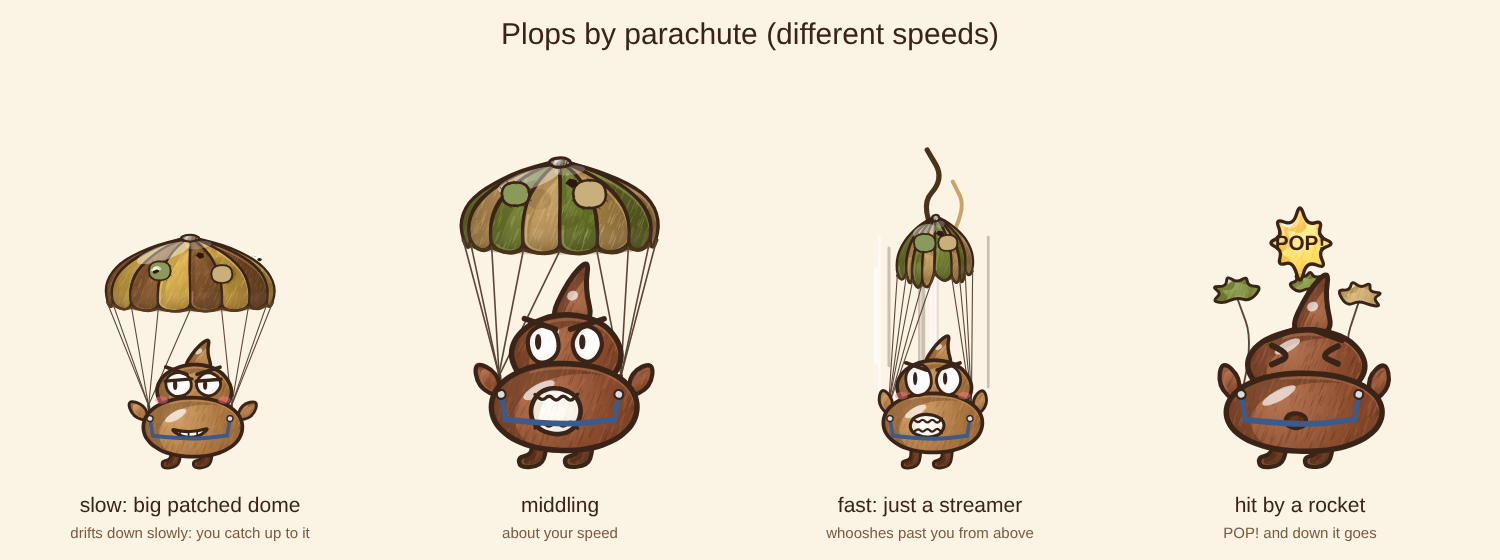
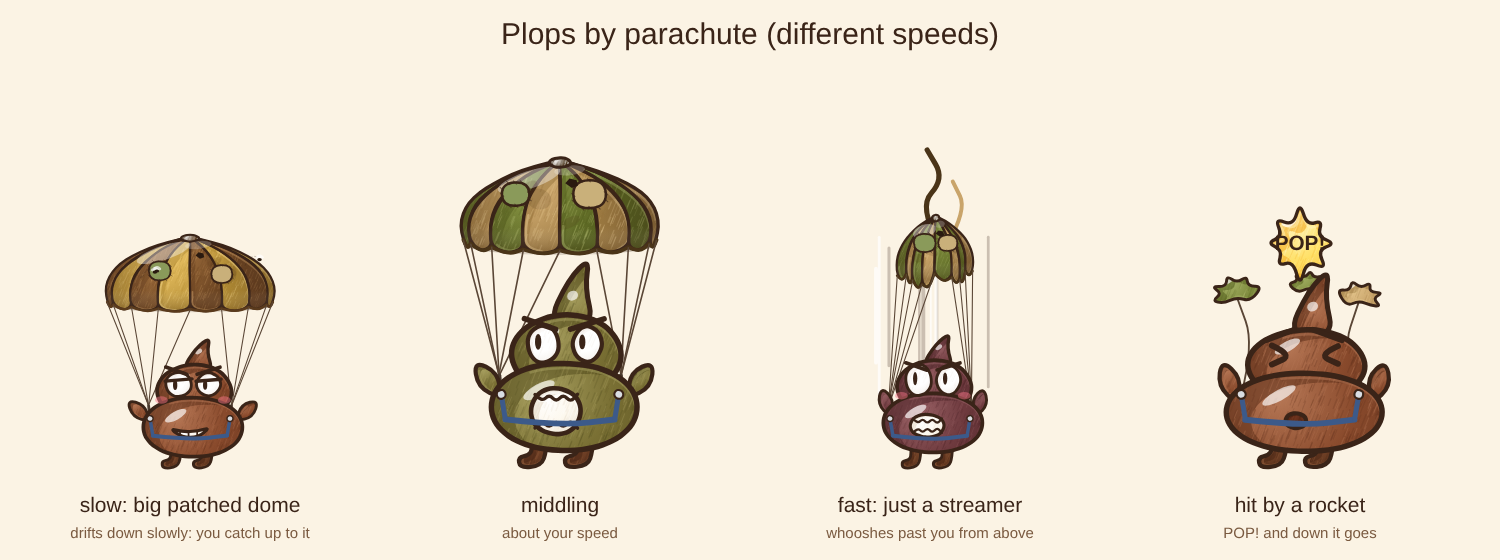
Level 4 art: Plops in many poo colours (PLOP_COLOURS) for the baseball teams and the parachutists; two baseball teams (Stink Sox blue caps fielding, Fly Swatters red caps batting), on-deck batter and runner
Claude-Session: https://claude.ai/code/session_01J77fP5avCCtqdyudLnsw4o

Changed region(s): [[0.3067, 0.4857, 0.4293, 0.8196], [0.5827, 0.6071, 0.6747, 0.8196], [0.092, 0.6071, 0.184, 0.8196]]

diff --git a/src/gfx/baseball.ts b/src/gfx/baseball.ts
@@ -410,23 +410,36 @@ function drawCap(ctx: Ctx, col: Fill, seed: number, helmet = false) {
   ST.shape(ctx, ellipsePts(52, 20, 2, 1.2, 0, 10), col, seed + 3, { lw: 0.5, plain: true });
 }
 
-/** Team colours: the Plops' caps. */
-const CAP = F('#2f5fd6', '#1c3f9e', '#6e96f0');
-const HELMET = F('#c8102e', '#8a0a1f', '#ff5a6e');
+/**
+ * The two teams: the Stink Sox (blue caps: fielding — pitcher, catcher, fielders) and the
+ * Fly Swatters (red caps and batting helmets: the batter, the one on deck, the runner).
+ */
+export const TEAM = {
+  sox: { name: 'STINK SOX', cap: F('#2f5fd6', '#1c3f9e', '#6e96f0') },
+  swatters: { name: 'FLY SWATTERS', cap: F('#c8102e', '#8a0a1f', '#ff5a6e') },
+} as const;
+export type Team = keyof typeof TEAM;
 
-export type BaseballRole = 'pitch-windup' | 'pitch-throw' | 'bat-stance' | 'bat-swing' | 'catcher' | 'fielder' | 'fielder-throw';
+export type BaseballRole = 'pitch-windup' | 'pitch-throw' | 'bat-stance' | 'bat-swing' | 'on-deck' | 'runner' | 'catcher' | 'fielder' | 'fielder-throw';
+/** Which team plays each part. */
+export const ROLE_TEAM: Record<BaseballRole, Team> = {
+  'pitch-windup': 'sox', 'pitch-throw': 'sox', catcher: 'sox', fielder: 'sox', 'fielder-throw': 'sox',
+  'bat-stance': 'swatters', 'bat-swing': 'swatters', 'on-deck': 'swatters', runner: 'swatters',
+};
 
 /**
  * A Plop playing baseball, in its usual 96 × 104 box (facing right; the batter is drawn flipped,
  * facing the pitcher): cap or helmet, a mitt or the bat, the catcher's mask and pads.
  */
-export function drawBaseballPlop(ctx: Ctx, role: BaseballRole, kind: PlopKind = 'medium', seed = 7) {
-  const frame: PlopFrame = role === 'pitch-throw' || role === 'bat-swing' || role === 'fielder-throw' ? 'yell1' : role === 'catcher' ? 'grin' : role === 'pitch-windup' ? 'look' : 'idle';
-  // the bat behind the body in the stance (over the shoulder), in front mid-swing
-  if (role === 'bat-stance') {
+export function drawBaseballPlop(ctx: Ctx, role: BaseballRole, kind: PlopKind = 'medium', seed = 7, body?: Fill) {
+  const frame: PlopFrame = role === 'pitch-throw' || role === 'bat-swing' || role === 'fielder-throw' ? 'yell1' : role === 'catcher' ? 'grin' : role === 'pitch-windup' ? 'look' : role === 'runner' ? 'run0' : role === 'on-deck' ? 'grin' : 'idle';
+  const cap = TEAM[ROLE_TEAM[role]].cap;
+  const helmet = role.startsWith('bat') || role === 'on-deck' || role === 'runner';
+  // the bat behind the body in the stance (over the shoulder; resting on it on deck), in front mid-swing
+  if (role === 'bat-stance' || role === 'on-deck') {
     ctx.save();
     ctx.translate(88, 58);
-    ctx.rotate(-1.95);
+    ctx.rotate(role === 'on-deck' ? -2.5 : -1.95);
     drawBat(ctx, 50, seed);
     ctx.restore();
   }
@@ -436,7 +449,7 @@ export function drawBaseballPlop(ctx: Ctx, role: BaseballRole, kind: PlopKind = 
     ctx.translate(0, 18);
     ctx.scale(1.06, 0.82);
   }
-  drawPlop(ctx, 0, 0, frame, ST, kind);
+  drawPlop(ctx, 0, 0, frame, ST, kind, body);
   if (role === 'catcher') {
     // chest protector and mask
     ST.shape(ctx, [[30, 58], [70, 58], [74, 80], [26, 80]], F('#2f5fd6', '#1c3f9e', '#6e96f0'), seed + 1, { lw: 0.8 });
@@ -456,12 +469,21 @@ export function drawBaseballPlop(ctx: Ctx, role: BaseballRole, kind: PlopKind = 
     ctx.moveTo(36, 45);
     ctx.lineTo(70, 45);
     ctx.stroke();
-    drawCap(ctx, F('#1a1a22', '#0a0a10', '#3a3a48'), seed + 2);
+    drawCap(ctx, cap, seed + 2);
     drawMitt(ctx, 92, 60, 1.25, seed + 3);
     ctx.restore();
     return;
   }
-  drawCap(ctx, role.startsWith('bat') ? HELMET : CAP, seed + 2, role.startsWith('bat'));
+  drawCap(ctx, cap, seed + 2, helmet);
+  if (role === 'runner') {
+    // dust kicked up behind, running hard
+    ctx.fillStyle = '#c99a6a88';
+    for (const [x, y, r] of [[-6, 96, 6], [-14, 92, 4], [-20, 97, 3]] as const) {
+      ctx.beginPath();
+      ctx.arc(x, y, r, 0, Math.PI * 2);
+      ctx.fill();
+    }
+  }
   if (role === 'bat-swing') {
     // the bat out in front, level, mid-swing, with a whoosh behind it
     ctx.strokeStyle = '#ffffffaa';

diff --git a/sketches/level4/baseball-sheet.ts b/sketches/level4/baseball-sheet.ts
@@ -1,7 +1,8 @@
 import { CHARACTERS } from '../wt-battle/src/data/characters';
 import { drawCharacter } from '../wt-battle/src/gfx/draw';
 import { STYLES, type Pt } from '../wt-battle/src/gfx/handdrawn';
-import { PARK, drawBallparkBack, drawBallparkFront, drawBaseball, drawBaseballPlop, drawBat, drawLineDrive, parkSpots, type BaseballRole } from '../wt-battle/src/gfx/baseball';
+import { PLOP_COLOURS } from '../wt-battle/src/gfx/plops';
+import { PARK, TEAM, drawBallparkBack, drawBallparkFront, drawBaseball, drawBaseballPlop, drawBat, drawLineDrive, parkSpots, type BaseballRole } from '../wt-battle/src/gfx/baseball';
 
 const ST = STYLES.polished;
 const FONT = '"Lilita One", "Arial Black", sans-serif';
@@ -34,13 +35,16 @@ const sheet = (name: string, w: number, h: number) => { const c = document.creat
   ctx.translate(0, PARK.FRONT_UP);
   // the players, standing on the ground line (y = 0)
   const sp = parkSpots(FW);
-  const plop = (x: number, role: BaseballRole, flip = false, k = 0.68) => at(ctx, flip ? x + 48 * k : x - 48 * k, -100 * k, k, () => drawBaseballPlop(ctx, role, 'medium', 7 + x), flip);
+  let ci = 0;
+  const plop = (x: number, role: BaseballRole, flip = false, k = 0.68) => { const body = PLOP_COLOURS[ci++ % PLOP_COLOURS.length]; at(ctx, flip ? x + 48 * k : x - 48 * k, -100 * k, k, () => drawBaseballPlop(ctx, role, 'medium', 7 + x, body), flip); };
   plop(sp.mound.x, 'pitch-throw');
   plop(sp.home.x + 4, 'bat-swing', true);
   plop(sp.home.x + 52, 'catcher', true);
   plop(sp.second.x - 30, 'fielder');
   plop(PARK.END + 300, 'fielder');
   plop(PARK.END + 520, 'fielder-throw');
+  plop(sp.first.x - 95, 'runner', true);
+  plop(sp.home.x + 96, 'on-deck', true);
   // you, walking in from the left
   const hero = CHARACTERS[0];
   at(ctx, PARK.END + 90 - 28, -54, 1, () => drawCharacter(ctx, 0, 0, hero, 'walk2'));
@@ -52,17 +56,20 @@ const sheet = (name: string, w: number, h: number) => { const c = document.creat
 }
 // 2) the players
 {
-  const roles: [BaseballRole, string, boolean][] = [
-    ['pitch-windup', 'pitcher: wind-up', false], ['pitch-throw', 'pitcher: throw!', false], ['bat-stance', 'batter: stance', true], ['bat-swing', 'batter: CRACK!', true],
-    ['catcher', 'catcher', true], ['fielder', 'fielder', false], ['fielder-throw', 'fielder: throws it in', false],
-  ];
-  const ctx = sheet('players', 1600, 380);
-  label(ctx, 'The Plops playing baseball', 800, 40, 28);
-  roles.forEach(([role, t, flip], i) => {
-    const x = 120 + i * 225;
-    const k = 1.9;
-    at(ctx, flip ? x + 48 * k : x - 48 * k, 320 - 100 * k, k, () => drawBaseballPlop(ctx, role, 'medium', 30 + i), flip);
-    label(ctx, t, x, 360, 18);
+  const sox: [BaseballRole, string, boolean][] = [['pitch-windup', 'pitcher: wind-up', false], ['pitch-throw', 'pitcher: throw!', false], ['catcher', 'catcher', true], ['fielder', 'fielder', false], ['fielder-throw', 'fielder: throws it in', false]];
+  const swat: [BaseballRole, string, boolean][] = [['bat-stance', 'batter: stance', true], ['bat-swing', 'batter: CRACK!', true], ['on-deck', 'on deck', true], ['runner', 'runner', false]];
+  const ctx = sheet('players', 1240, 760);
+  label(ctx, 'The Plops playing baseball: two teams, every Plop its own colour', 620, 40, 26);
+  let ci = 0;
+  ([[TEAM.sox.name + ' (blue caps): fielding', sox, 330], [TEAM.swatters.name + ' (red caps): batting', swat, 690]] as const).forEach(([title, list, base]) => {
+    label(ctx, title, 620, base - 236, 22, '#5a3a22');
+    list.forEach(([role, t, flip], i) => {
+      const x = 130 + i * 245;
+      const k = 1.7;
+      const body = PLOP_COLOURS[ci++ % PLOP_COLOURS.length];
+      at(ctx, flip ? x + 48 * k : x - 48 * k, base - 100 * k, k, () => drawBaseballPlop(ctx, role, 'medium', 30 + i, body), flip);
+      label(ctx, t, x, base + 30, 17);
+    });
   });
 }
 // 3) the ball, the bat

diff --git a/sketches/level4/sheet.ts b/sketches/level4/sheet.ts
@@ -2,6 +2,7 @@ import { CHARACTERS } from '../wt-battle/src/data/characters';
 import { drawHeroChute, drawPlopChute, type ChuteState } from '../wt-battle/src/gfx/skydive';
 import { STYLES, type Pt } from '../wt-battle/src/gfx/handdrawn';
 import { drawNuggie } from '../wt-battle/src/gfx/collectibles';
+import { PLOP_COLOURS } from '../wt-battle/src/gfx/plops';
 import type { Pose } from '../wt-battle/src/gfx/draw';
 
 const ST = STYLES.polished;
@@ -70,7 +71,7 @@ const hero = (id: string) => CHARACTERS.find((c) => c.id === id)!;
   rows.forEach(([t, how, kind, sub], i) => {
     const x = 190 + i * 370;
     const s = (kind === 'small' ? 0.68 : kind === 'large' ? 1.32 : 1) * 2.1;
-    at(ctx, x - 48 * s, 470 - 100 * s, s, () => drawPlopChute(ctx, kind, how, 5 + i));
+    at(ctx, x - 48 * s, 470 - 100 * s, s, () => drawPlopChute(ctx, kind, how, 5 + i, PLOP_COLOURS[(i * 2 + 1) % PLOP_COLOURS.length]));
     label(ctx, t, x, 512, 21);
     label(ctx, sub, x, 538, 15, '#7a5a40');
   });
@@ -100,10 +101,10 @@ const hero = (id: string) => CHARACTERS.find((c) => c.id === id)!;
   // nuggies floating in the air
   for (const [x, y] of [[380, 470], [430, 450], [480, 470], [600, 820]] as Pt[]) at(ctx, x, y, 1.6, () => drawNuggie(ctx, 0, 0, 9));
   // Plops: a slow one below you, a middling one level-ish, a fast one coming down from above
-  at(ctx, 520, 760, 1.6 * 0.68, () => drawPlopChute(ctx, 'small', 'slow', 4));
-  at(ctx, 250, 500, 1.6, () => drawPlopChute(ctx, 'medium', 'mid', 6));
-  at(ctx, 560, 120, 1.6 * 0.68, () => drawPlopChute(ctx, 'small', 'fast', 8));
-  at(ctx, 190, 930, 1.6 * 1.32, () => drawPlopChute(ctx, 'large', 'mid', 9));
+  at(ctx, 520, 760, 1.6 * 0.68, () => drawPlopChute(ctx, 'small', 'slow', 4, PLOP_COLOURS[4]));
+  at(ctx, 250, 500, 1.6, () => drawPlopChute(ctx, 'medium', 'mid', 6, PLOP_COLOURS[3]));
+  at(ctx, 560, 120, 1.6 * 0.68, () => drawPlopChute(ctx, 'small', 'fast', 8, PLOP_COLOURS[5]));
+  at(ctx, 190, 930, 1.6 * 1.32, () => drawPlopChute(ctx, 'large', 'mid', 9, PLOP_COLOURS[2]));
   // the warning for the fast one
   label(ctx, '!', 610, 60, 54, '#ff5a3c');
   // you, steering right, bazooka ready

diff --git a/src/gfx/skydive.ts b/src/gfx/skydive.ts
@@ -307,7 +307,7 @@ export function drawHeroChute(ctx: Ctx, ch: CharacterDef, pose: Pose, state: Chu
  *  - 'fast': just a little streamer chute, flapping, coming down fast (speed lines)
  *  - 'popped': hit: the canopy torn and flapping, the Plop dropping out of the sky
  */
-export function drawPlopChute(ctx: Ctx, kind: PlopKind, how: 'slow' | 'mid' | 'fast' | 'popped', seed = 3) {
+export function drawPlopChute(ctx: Ctx, kind: PlopKind, how: 'slow' | 'mid' | 'fast' | 'popped', seed = 3, body?: Fill) {
   const cx = 48;
   // (the lines clip on at either side of the body; a belt round its middle)
   const grip: [Pt, Pt] = [[20, 64], [76, 64]];
@@ -364,7 +364,7 @@ export function drawPlopChute(ctx: Ctx, kind: PlopKind, how: 'slow' | 'mid' | 'f
     drawLines(ctx, hem, grip[0], grip[1], seed + 20);
     if (how === 'slow') flies(ctx, cx, top + H * 0.4, W, seed + 30);
   }
-  drawPlop(ctx, 0, 0, frame, ST, kind);
+  drawPlop(ctx, 0, 0, frame, ST, kind, body);
   // a belt round its middle, rings where the lines clip on
   {
     ST.line(ctx, [[grip[0][0] + 2, 76], [cx, 79], [grip[1][0] - 2, 76]], seed + 80, 1.4, '#3c5a8a');

diff --git a/src/gfx/plops.ts b/src/gfx/plops.ts
@@ -35,6 +35,18 @@ const BODY0: Fill = { base: '#8b5434', shade: '#5f3520', light: '#b98058' };
 const SMALL_BODY: Fill = { base: '#a8743f', shade: '#7a4f26', light: '#d6a46c' };
 const MED_BODY: Fill = { base: '#894a2c', shade: '#5c2f1a', light: '#b77856' };
 const BIG_BODY: Fill = { base: '#5c3a22', shade: '#3a2213', light: '#8c6346' };
+/**
+ * More poo colours for a crowd of Plops (Part 2: the baseball teams, the parachutists, the climbs),
+ * so a bunch of them never look like copies: caramel, reddish, chocolate, olive, golden, plum.
+ */
+export const PLOP_COLOURS: Fill[] = [
+  SMALL_BODY,
+  MED_BODY,
+  BIG_BODY,
+  { base: '#7a7034', shade: '#544c1e', light: '#a8a060' },
+  { base: '#b88a3a', shade: '#86601e', light: '#e2b868' },
+  { base: '#6e3a3e', shade: '#4a2226', light: '#9a6266' },
+];
 const CAPE: Fill = { base: '#d8243a', shade: '#9c1426', light: '#ff6a7a' };
 const LEG: Fill = { base: '#6e3f25', shade: '#4a2716', light: '#9a6440' };
 const EYE: Fill = { base: '#ffffff', shade: '#ece4dc', light: '#ffffff' };
